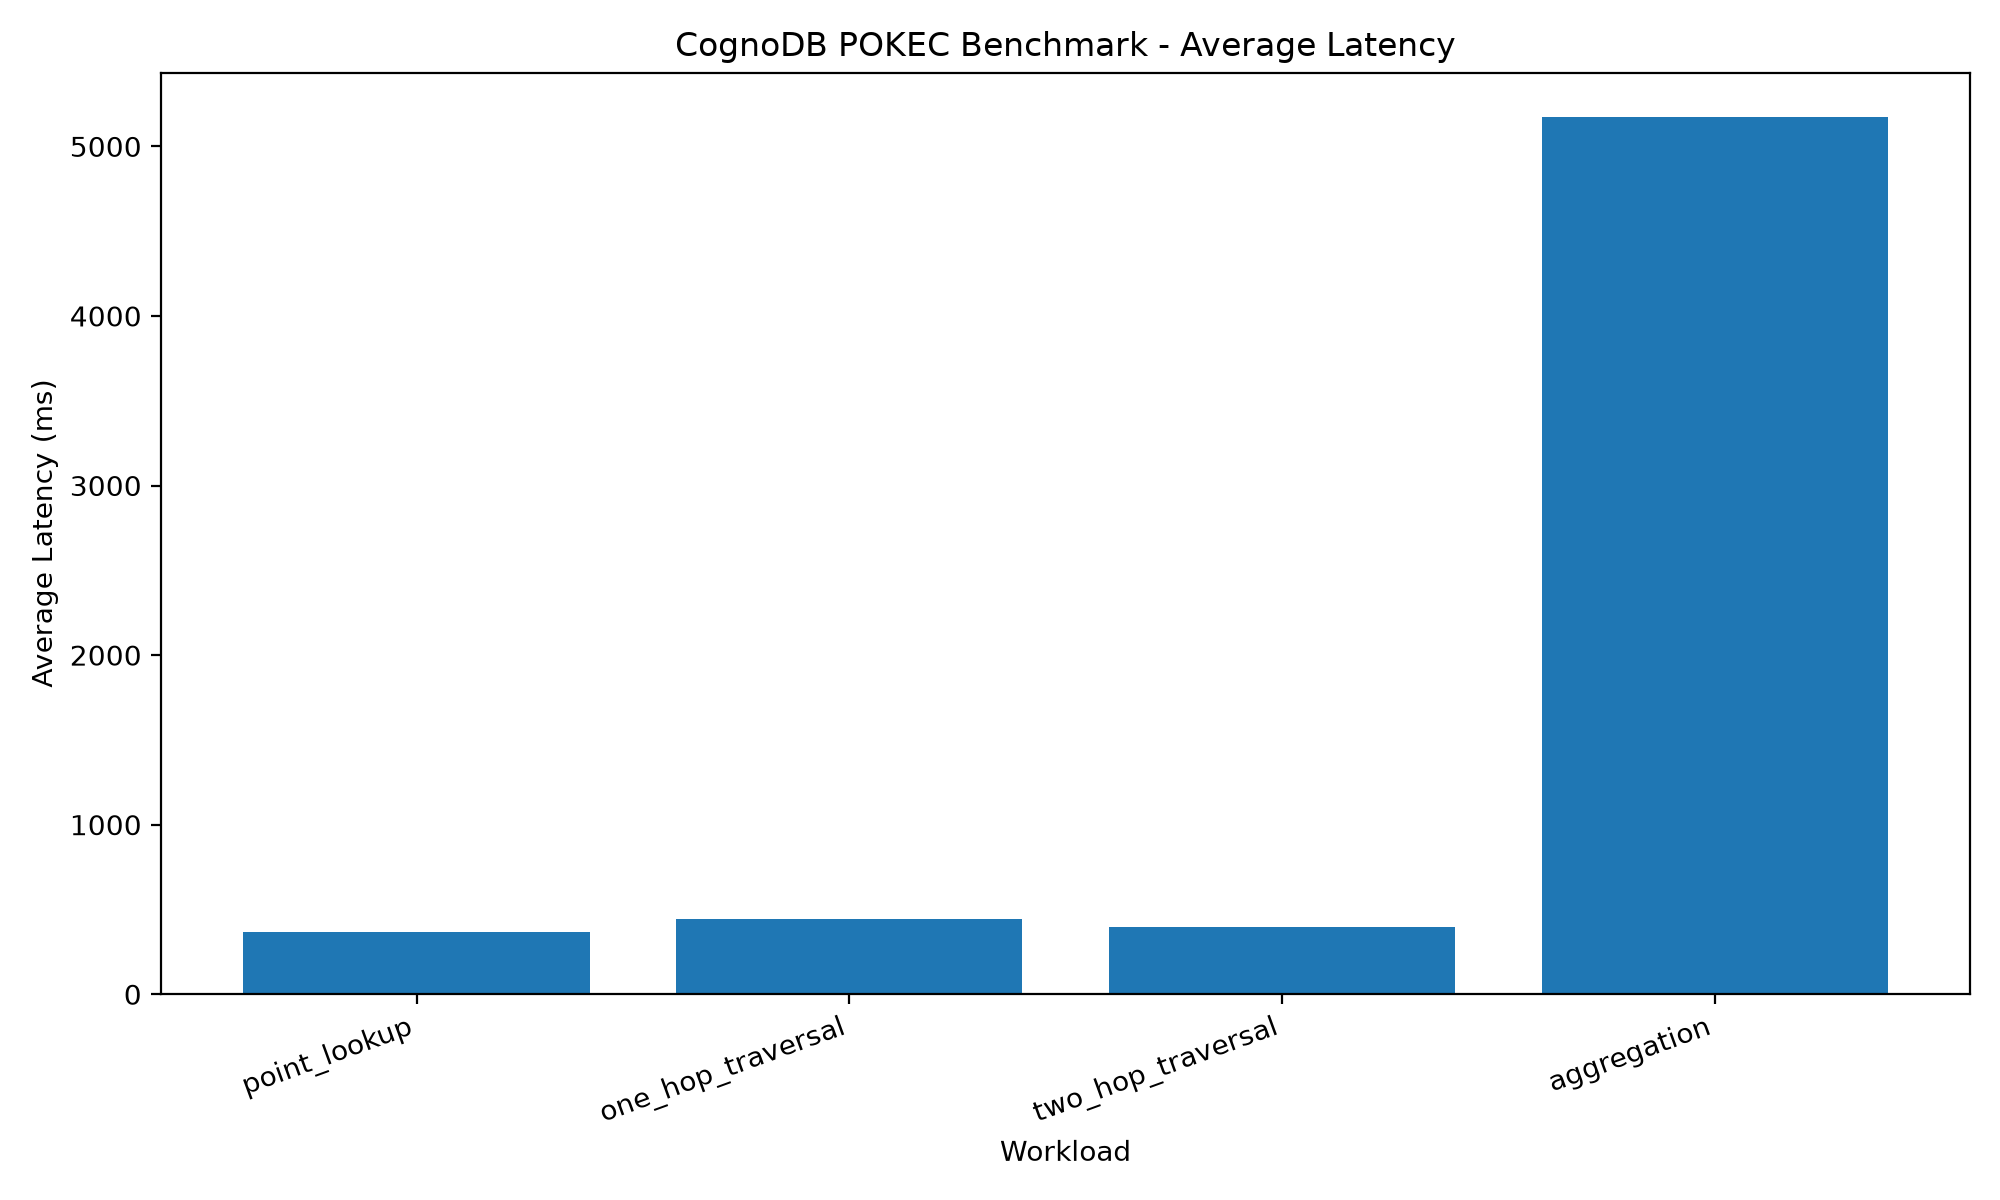
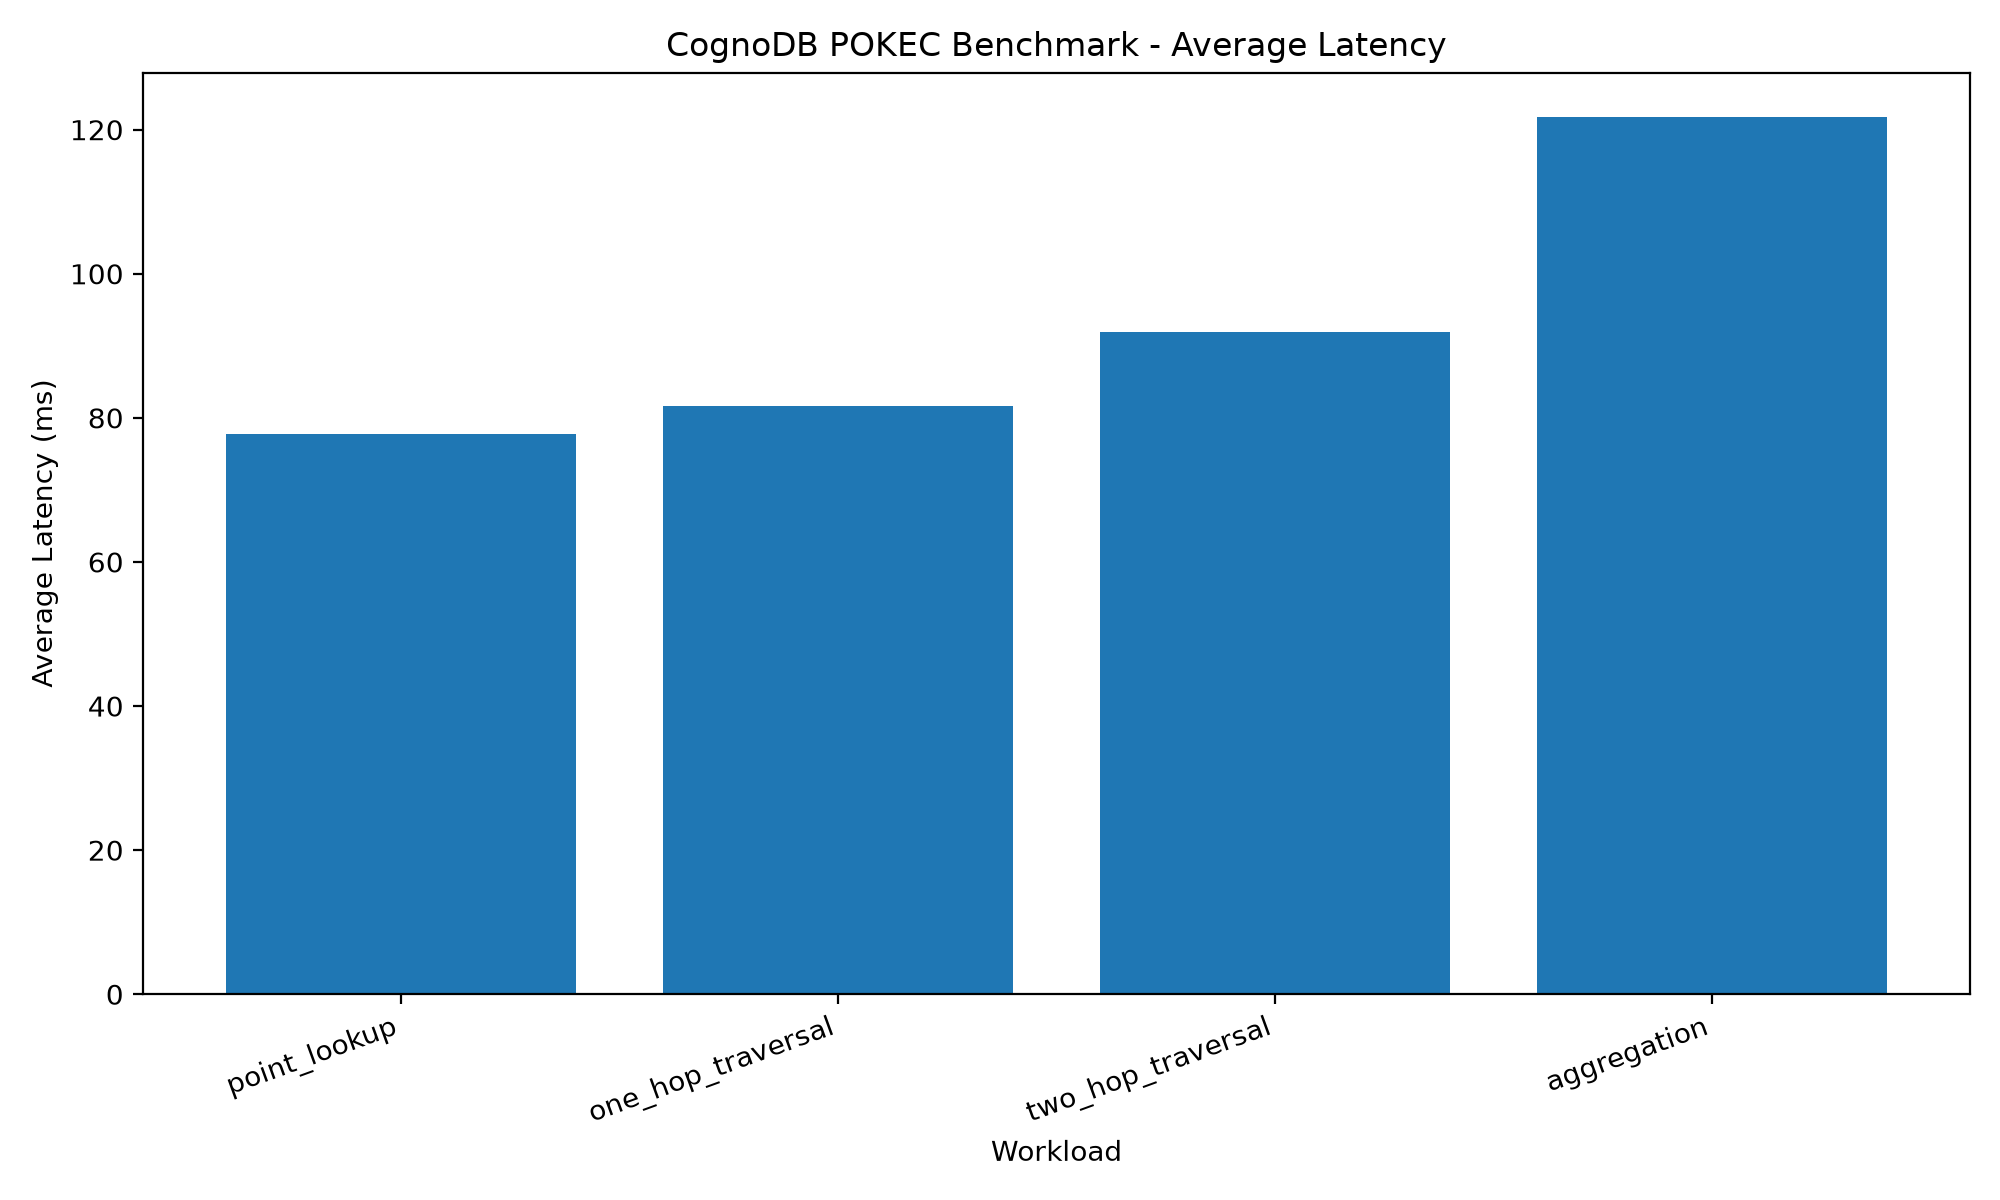
Add CognoDB POKEC benchmark results

diff --git a/benchmark/datasets/import_pokec.py b/benchmark/datasets/import_pokec.py
@@ -1,6 +1,7 @@
 import os
 import gzip
 import time
+import certifi
 
 from dotenv import load_dotenv
 from neo4j import GraphDatabase
@@ -8,9 +9,11 @@ from neo4j.exceptions import ServiceUnavailable, TransientError
 
 load_dotenv()
 
-URI = os.getenv("COGNODB_URI")
-USERNAME = os.getenv("COGNODB_USERNAME")
-PASSWORD = os.getenv("COGNODB_PASSWORD")
+os.environ["SSL_CERT_FILE"] = certifi.where()
+
+URI = os.getenv("NEO4J_URI")
+USERNAME = os.getenv("NEO4J_USERNAME")
+PASSWORD = os.getenv("NEO4J_PASSWORD")
 
 DATA_FILE = "data/soc-pokec-relationships.txt.gz"
 
@@ -30,16 +33,13 @@ def create_driver():
 
 def import_batch(driver, batch):
     for attempt in range(1, MAX_RETRIES + 1):
-
         try:
             with driver.session() as session:
                 session.run(
                     """
                     UNWIND $rows AS row
-
                     MERGE (a:Person {id: row.source})
                     MERGE (b:Person {id: row.target})
-
                     MERGE (a)-[:KNOWS]->(b)
                     """,
                     rows=batch,
@@ -48,33 +48,40 @@ def import_batch(driver, batch):
             return True
 
         except (ServiceUnavailable, TransientError, OSError) as error:
-
             print(
-                f"⚠ Batch failed "
+                f"Batch failed "
                 f"(attempt {attempt}/{MAX_RETRIES}): {error}"
             )
 
             if attempt < MAX_RETRIES:
                 time.sleep(3)
-                driver.verify_connectivity()
 
     return False
 
 
 def import_pokec():
 
-    print("Connecting to CognoDB...")
+    print("Connecting to Neo4j...")
+
+    if not URI:
+        raise RuntimeError("NEO4J_URI is missing from .env")
+
+    if not USERNAME:
+        raise RuntimeError("NEO4J_USERNAME is missing from .env")
+
+    if not PASSWORD:
+        raise RuntimeError("NEO4J_PASSWORD is missing from .env")
 
     driver = create_driver()
-    driver.verify_connectivity()
-
-    print("✅ Connected to CognoDB")
-    print("Starting POKEC import...")
-
-    batch = []
-    total = 0
 
     try:
+        driver.verify_connectivity()
+
+        print("Connected to Neo4j successfully.")
+        print("Starting POKEC import...")
+
+        batch = []
+        total = 0
 
         with gzip.open(DATA_FILE, "rt", encoding="utf-8") as file:
 
@@ -93,41 +100,42 @@ def import_pokec():
                 source = int(parts[0])
                 target = int(parts[1])
 
-                batch.append(
-                    {
-                        "source": source,
-                        "target": target,
-                    }
-                )
+                batch.append({
+                    "source": source,
+                    "target": target
+                })
 
                 if len(batch) >= BATCH_SIZE:
 
                     success = import_batch(driver, batch)
 
                     if not success:
-                        print("❌ Batch failed after maximum retries.")
-                        print("Stopping import safely.")
-                        return
+                        raise RuntimeError(
+                            "Batch failed after maximum retries."
+                        )
 
                     total += len(batch)
 
-                    print(f"Imported {total:,} relationships")
+                    print(
+                        f"Imported {total:,} relationships..."
+                    )
 
                     batch.clear()
 
-        if batch:
+            if batch:
 
-            success = import_batch(driver, batch)
+                success = import_batch(driver, batch)
 
-            if not success:
-                print("❌ Final batch failed.")
-                return
+                if not success:
+                    raise RuntimeError(
+                        "Final batch failed after maximum retries."
+                    )
 
-            total += len(batch)
+                total += len(batch)
 
         print()
-        print("✅ Import complete!")
-        print(f"Total relationships processed: {total:,}")
+        print("POKEC import completed successfully!")
+        print(f"Relationships processed: {total:,}")
 
     finally:
         driver.close()

diff --git a/benchmark/workloads/run_benchmark.py b/benchmark/workloads/run_benchmark.py
@@ -15,9 +15,9 @@ from neo4j import GraphDatabase
 
 load_dotenv()
 
-URI = os.getenv("COGNODB_URI")
-USERNAME = os.getenv("COGNODB_USERNAME")
-PASSWORD = os.getenv("COGNODB_PASSWORD")
+URI = os.getenv("NEO4J_URI")
+USERNAME = os.getenv("NEO4J_USERNAME")
+PASSWORD = os.getenv("NEO4J_PASSWORD")
 
 ITERATIONS = 20
 WARMUP_ITERATIONS = 3
